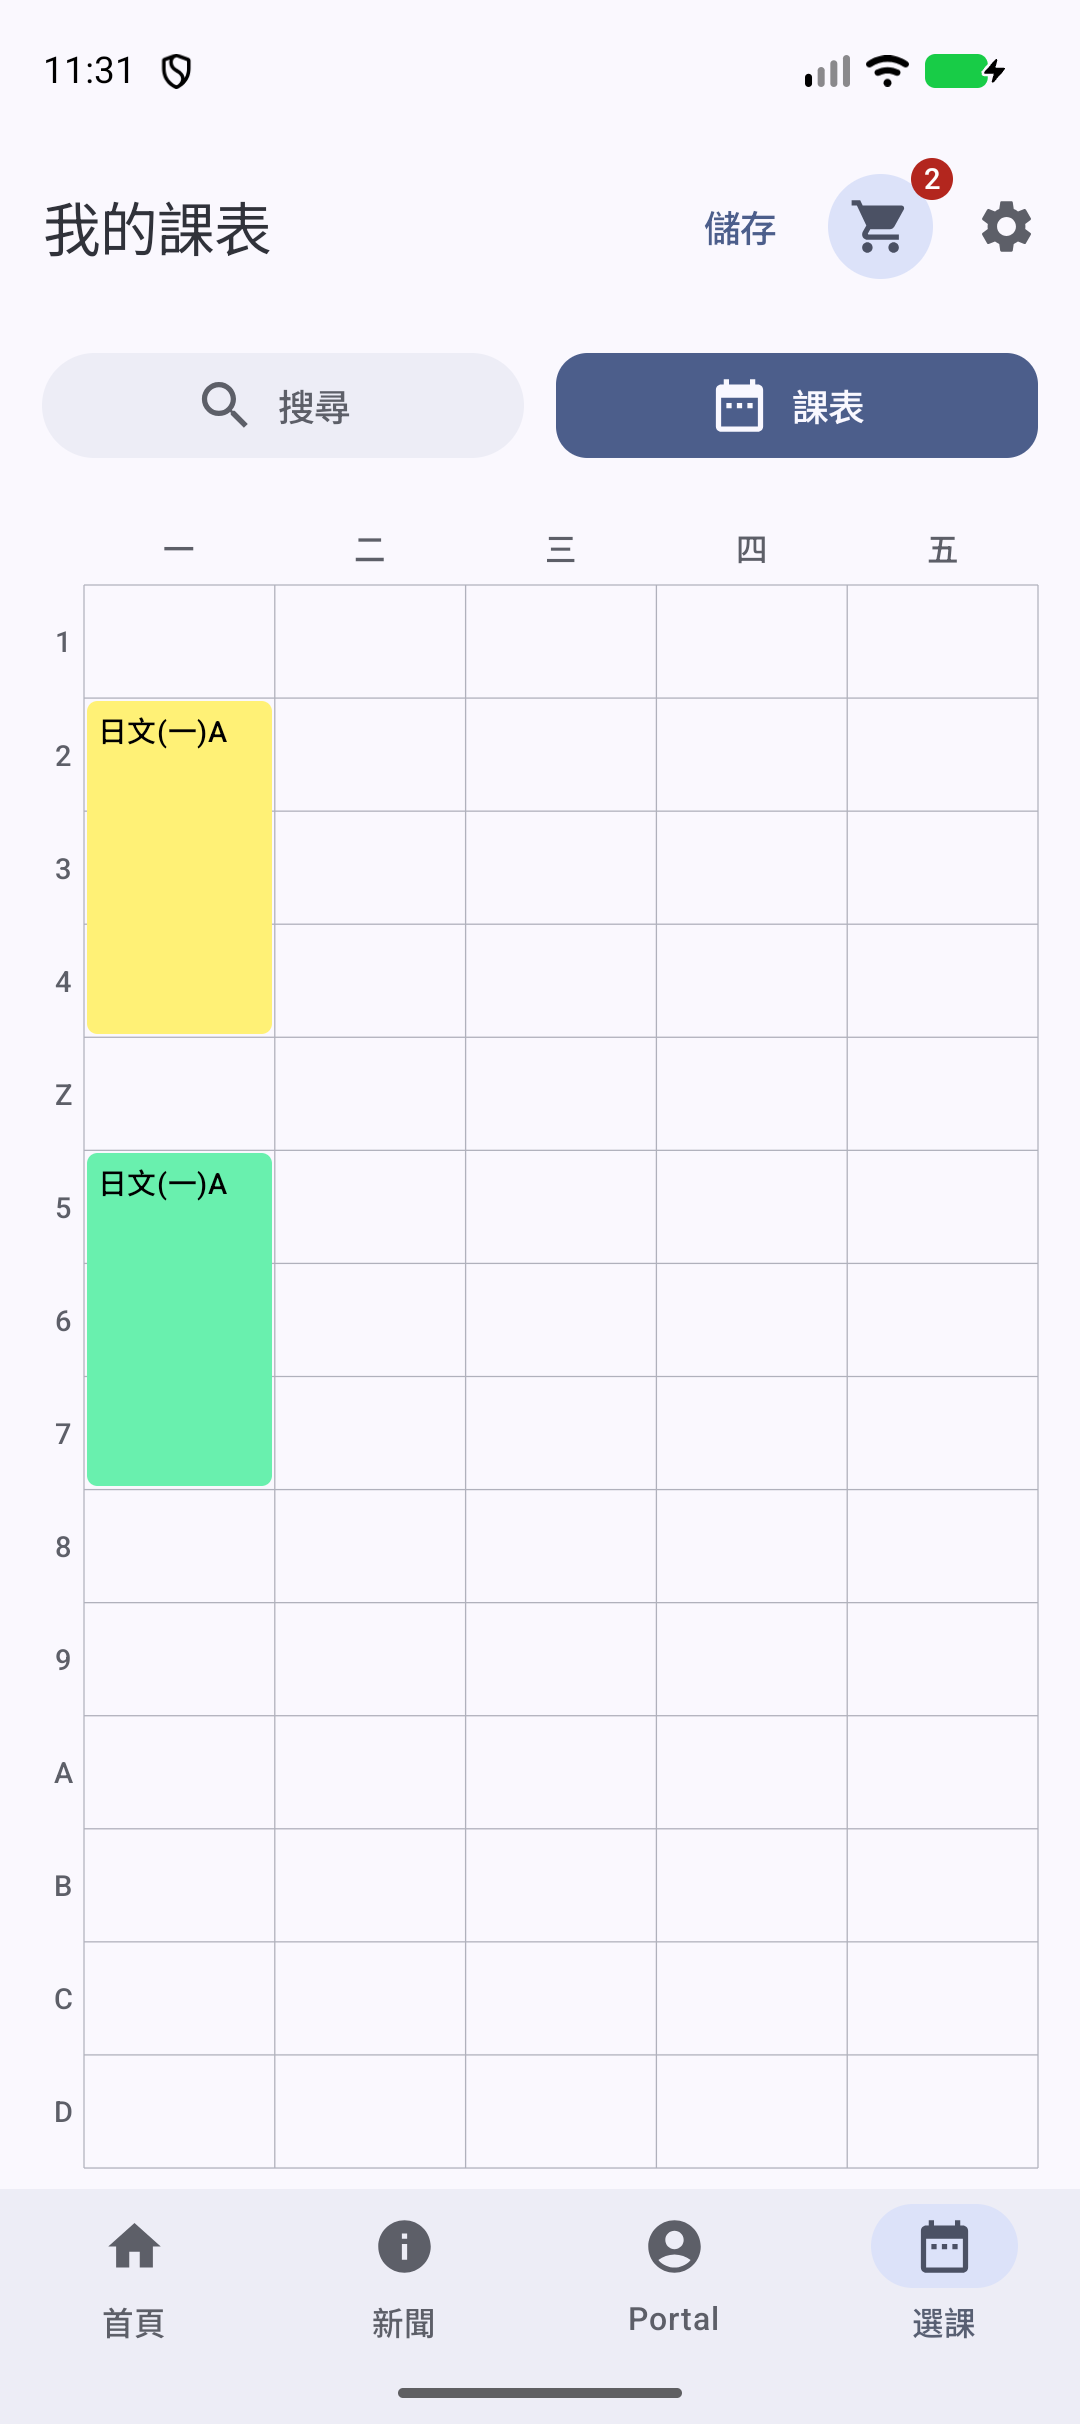
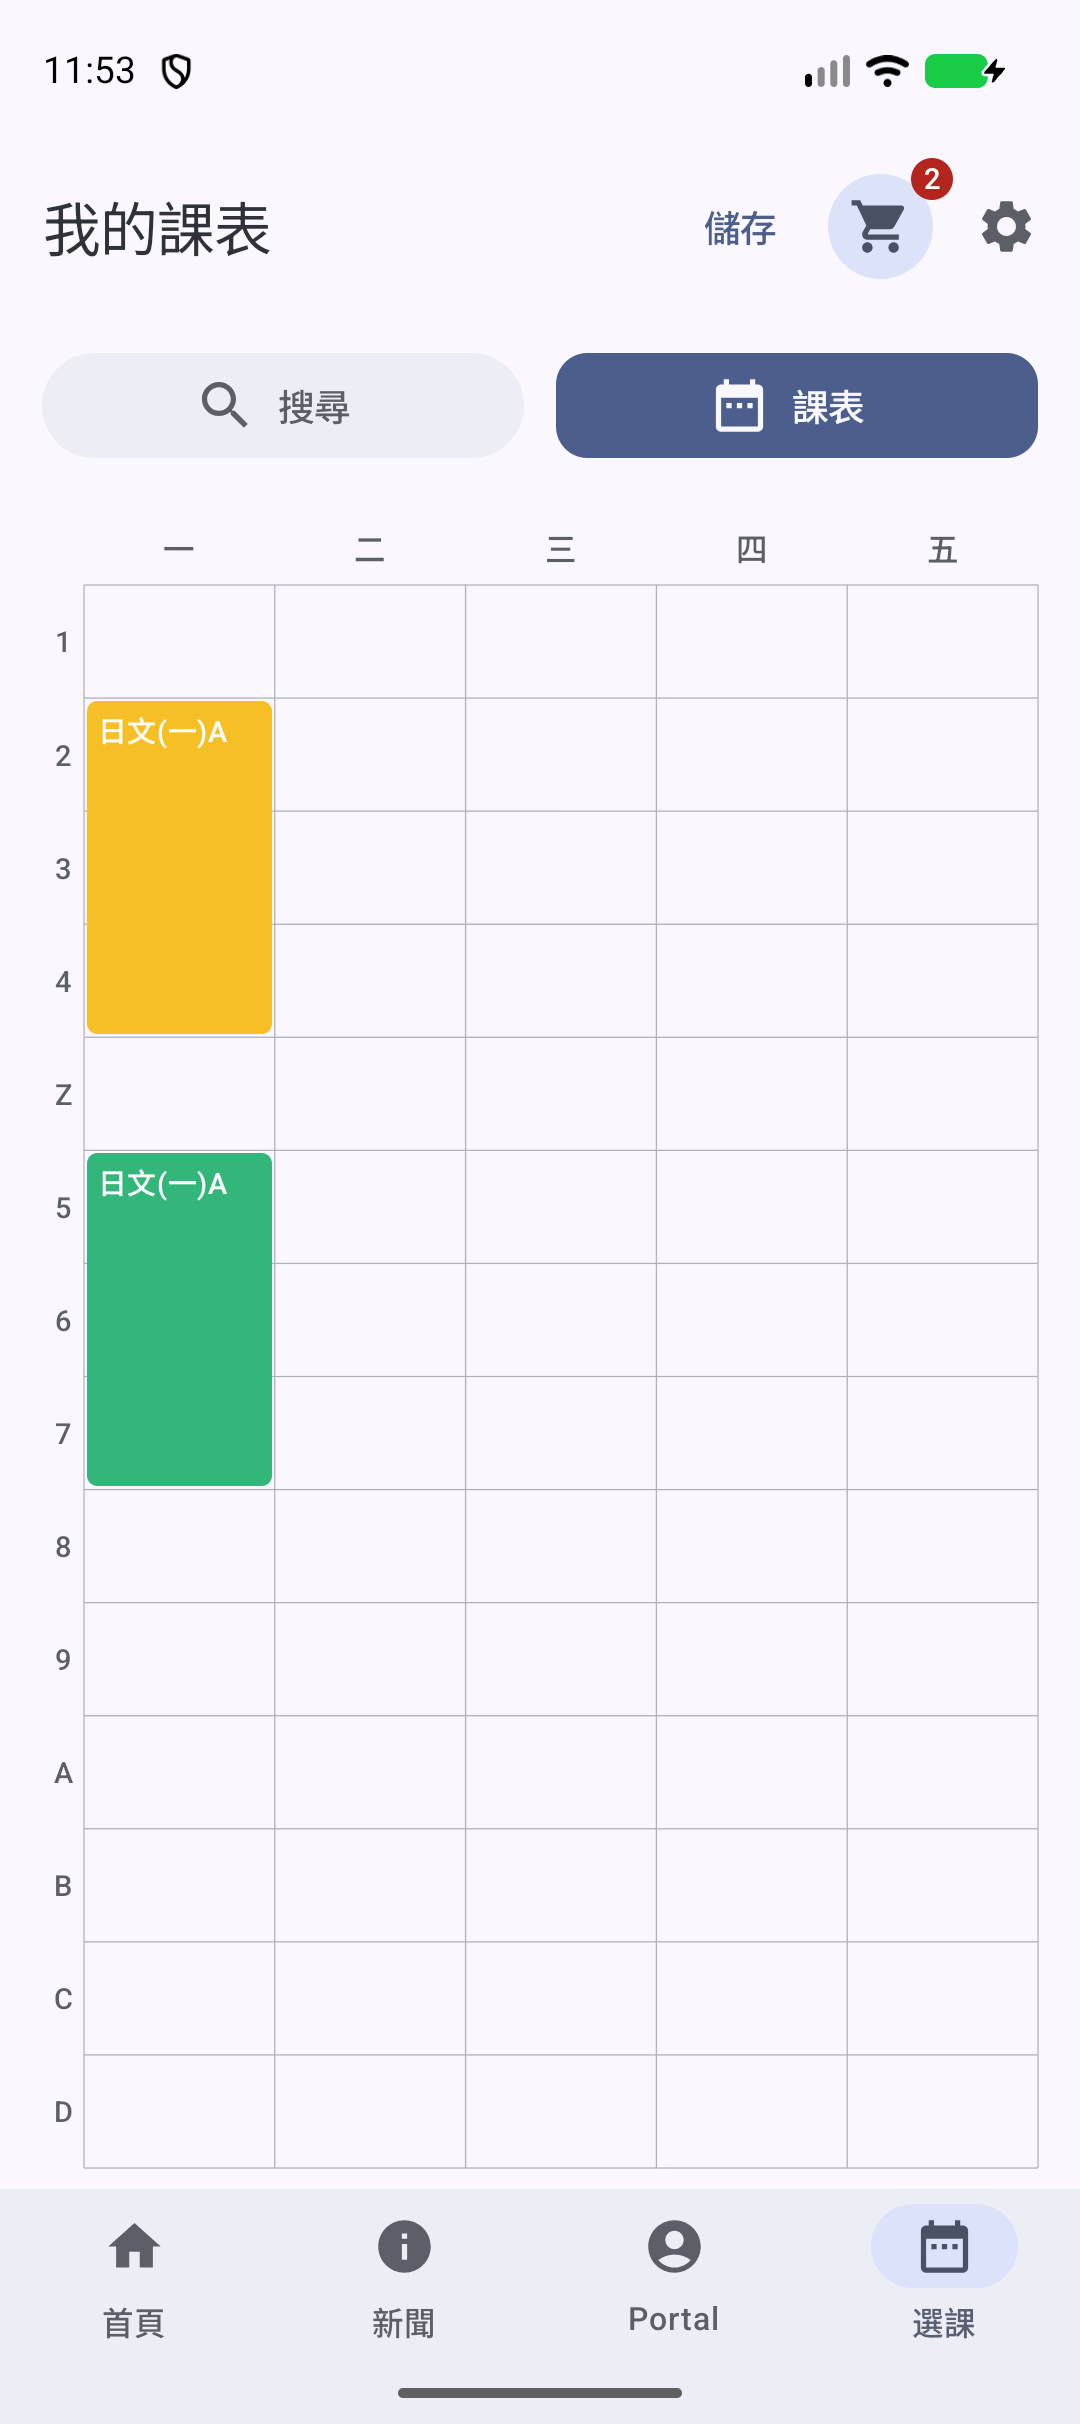
docs(timetable): capture Google Calendar palette on Android
Refresh the light timetable reference and add a matching dark capture from the Pixel 9 emulator. Show the exact Banana and Sage event fills, requested foreground treatments, and visible system bar icons.

Changed region(s): [[0.0611, 0.4641, 0.275, 0.6188], [0.0611, 0.2785, 0.275, 0.4332], [0.0917, 0.0, 0.1222, 0.0309]]

diff --git a/docs/timetable-colors/README.md b/docs/timetable-colors/README.md
@@ -53,8 +53,10 @@ These captures show the populated timetable on an iPhone 15 simulator running iO
 | --- | --- |
 | ![iOS light timetable](screenshots/ios-light.png) | ![iOS dark timetable](screenshots/ios-dark.png) |
 
-The Android light-mode capture shows the same LN0025-A/B sections in a draft on a Pixel 9 emulator running Android 17 (API 37), using shuffled colors. Both blocks and the weekday/period labels are readable; all periods through D fit above the navigation bar.
+The Android captures show the same LN0025-A/B sections in a draft on a Pixel 9 emulator running Android 17 (API 37), using shuffled colors. They show Google Calendar's Banana and Sage fills with white course text in light mode and black course text in dark mode. Weekday/period labels and system bar icons follow the selected appearance; all periods through D fit above the navigation bar.
 
-![Android light timetable](screenshots/android-light.png)
+| Light | Dark |
+| --- | --- |
+| ![Android light timetable](screenshots/android-light.png) | ![Android dark timetable](screenshots/android-dark.png) |
 
-The supplied Apple Calendar and Google Calendar images informed the block and grid styling. Runtime screenshots now cover iOS light/dark and Android light appearances.
+The supplied Apple Calendar and Google Calendar images informed the block and grid styling. Runtime screenshots cover both iOS and Android in light and dark appearances.
